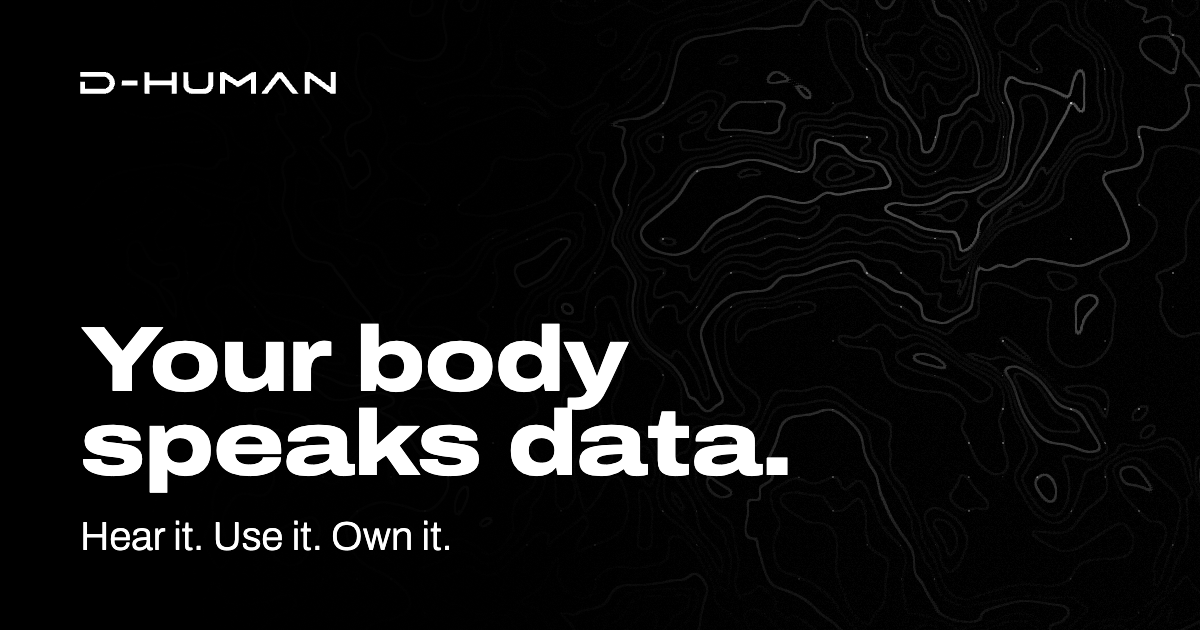
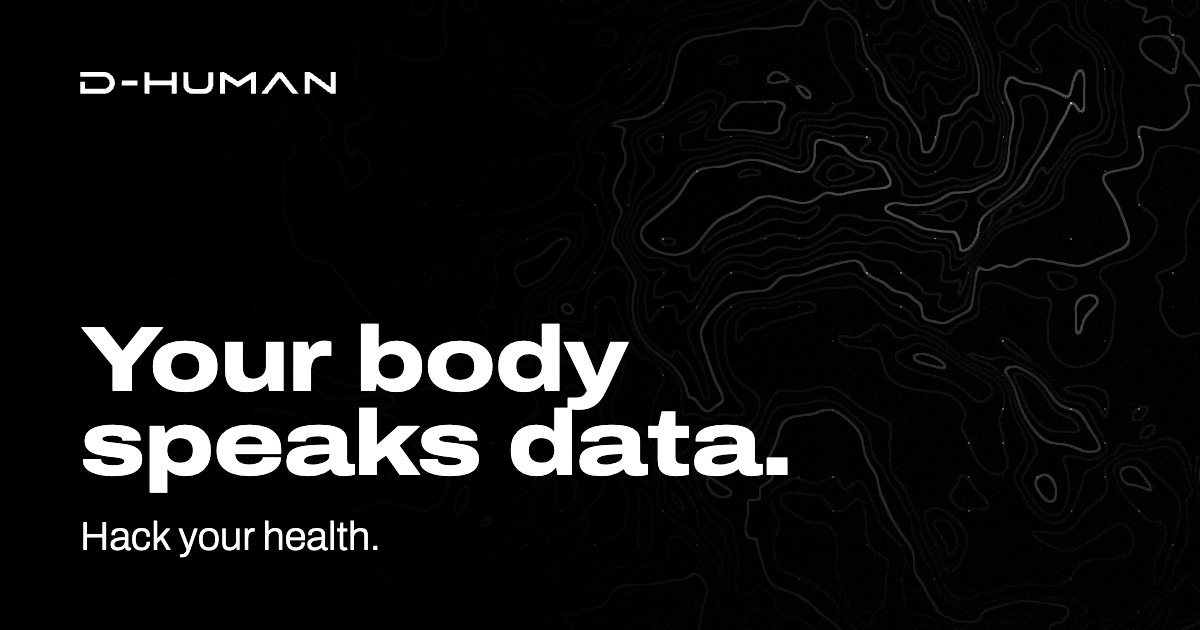
Add a Google Form to the waitlist and change the tagline
The form is a second way onto the waitlist. setupForm() in the Apps Script
builds it, links it to the Sheet, opens it to anyone with the link and adds a
trigger that files answers in the Waitlist tab with Source google-form. The new
/api/waitlist/form route gives those signups the welcome email and a Resend
contact, so launch broadcasts reach both sources.

The tagline becomes "Hack your health." on the hero, welcome email and share
image.

Changed region(s): [[0.0925, 0.8143, 0.37, 0.8746]]

diff --git a/app/api/waitlist/form/route.ts b/app/api/waitlist/form/route.ts
@@ -1,0 +1,29 @@
+import { after } from "next/server";
+import { saveContact, sendWelcomeEmail } from "@/lib/waitlist/email";
+import { formSignupSchema } from "@/lib/waitlist/schema";
+import { verifyWebhookSecret } from "@/lib/waitlist/token";
+
+// Called by the Apps Script trigger after it saves a new Google Form signup, so
+// form signups get the same welcome email and Resend contact as website ones.
+export async function POST(request: Request) {
+  const token = request.headers.get("authorization")?.replace(/^Bearer\s+/i, "") ?? "";
+  if (!verifyWebhookSecret(token)) {
+    return Response.json({ error: "forbidden" }, { status: 403 });
+  }
+
+  const body = await request.json().catch(() => null);
+  const parsed = formSignupSchema.safeParse(body);
+  if (!parsed.success) {
+    return Response.json({ error: "invalid_email" }, { status: 400 });
+  }
+
+  const { email, firstName } = parsed.data;
+  after(async () => {
+    const results = await Promise.allSettled([
+      sendWelcomeEmail(email),
+      saveContact(email, firstName),
+    ]);
+    for (const r of results) if (r.status === "rejected") console.error("[waitlist]", r.reason);
+  });
+  return Response.json({ status: "accepted" });
+}

diff --git a/lib/waitlist/token.ts b/lib/waitlist/token.ts
@@ -1,5 +1,5 @@
 import "server-only";
-import { createHmac, timingSafeEqual } from "node:crypto";
+import { createHash, createHmac, timingSafeEqual } from "node:crypto";
 
 // A signup gets a token that lets the same browser add its optional
 // follow-up answers, without letting anyone edit another person's row.
@@ -19,4 +19,13 @@ export function verifyEmailToken(email: string, token: string) {
   const expected = Buffer.from(signEmail(email));
   const received = Buffer.from(token);
   return expected.length === received.length && timingSafeEqual(expected, received);
+}
+
+// For calls from the Apps Script itself. Hashing gives both sides the same
+// length, which timingSafeEqual requires.
+export function verifyWebhookSecret(value: string) {
+  const secret = process.env.GOOGLE_SHEETS_WEBHOOK_SECRET;
+  if (!secret) return false;
+  const digest = (text: string) => createHash("sha256").update(text).digest();
+  return timingSafeEqual(digest(value), digest(secret));
 }

diff --git a/lib/waitlist/welcome-email.ts b/lib/waitlist/welcome-email.ts
@@ -90,7 +90,7 @@ export function welcomeEmail({ email, siteUrl, assetUrl = siteUrl, canReply = fa
             </tr>
             <tr>
               <td class="px" style="padding:18px 40px 36px;font:500 18px/26px ${FONT};color:${GRAPHITE}">
-                Your body speaks data.<br><span style="white-space:nowrap;color:${PAPER}">Hear it. Use it. Own it.</span>
+                Your body speaks data.<br><span style="white-space:nowrap;color:${PAPER}">Hack your health.</span>
               </td>
             </tr>
 
@@ -154,7 +154,7 @@ export function welcomeEmail({ email, siteUrl, assetUrl = siteUrl, canReply = fa
 
   const text = [
     "You're on the list.",
-    "Your body speaks data. Hear it. Use it. Own it.",
+    "Your body speaks data. Hack your health.",
     "",
     "Thanks for joining. When early access opens, you'll hear from us first, along with pricing for the Baseline, Core and Complete plans.",
     "",

diff --git a/components/site/Hero.tsx b/components/site/Hero.tsx
@@ -17,11 +17,7 @@ export function Hero() {
           <span className="block">Your body</span>{" "}
           <span className="block">speaks data.</span>
         </h1>
-        <p className="semiwide mt-5 text-lead font-medium sm:mt-7">
-          {/* Each beat stays whole when the line wraps on narrow screens. */}
-          <span className="inline-block">Hear it.</span> <span className="inline-block">Use it.</span>{" "}
-          <span className="inline-block">Own it.</span>
-        </p>
+        <p className="semiwide mt-5 text-lead font-medium sm:mt-7">Hack your health.</p>
         <p className="mt-8 max-w-[48ch] text-graphite sm:mt-10">
           D-Human tests your blood, gut and body, has a doctor review the results, and recommends
           supplements only where your markers point. Then we retest to show what moved.

diff --git a/lib/waitlist/email.ts b/lib/waitlist/email.ts
@@ -42,12 +42,13 @@ export async function sendWelcomeEmail(email: string) {
 
 // Adds the signup to Resend Contacts (and a segment, if configured) so launch
 // news can go out from Resend's Broadcasts screen with unsubscribe handled.
-export async function saveContact(email: string) {
+export async function saveContact(email: string, firstName?: string) {
   const r = resend();
   if (!r) return;
   const segmentId = process.env.RESEND_SEGMENT_ID;
   const { error } = await r.contacts.create({
     email,
+    firstName,
     unsubscribed: false,
     ...(segmentId ? { segments: [{ id: segmentId }] } : {}),
   });

diff --git a/lib/waitlist/schema.ts b/lib/waitlist/schema.ts
@@ -39,5 +39,16 @@ export const detailsSchema = z.object({
     .or(z.literal("").transform(() => undefined)),
 });
 
+// Sent by the Google Form's Apps Script trigger for a new row. The form puts no
+// limit on names, so a long one is cut rather than costing the welcome email.
+export const formSignupSchema = z.object({
+  email,
+  firstName: z
+    .string()
+    .trim()
+    .optional()
+    .transform((value) => value?.slice(0, 60) || undefined),
+});
+
 export type JoinInput = z.infer<typeof joinSchema>;
 export type DetailsInput = z.infer<typeof detailsSchema>;

diff --git a/MEMORY.md b/MEMORY.md
@@ -4,13 +4,14 @@ The running record of this project: where things stand, why they are the way the
 
 ## Snapshot
 
-- **What:** the D-Human waitlist landing page. Tagline: "Your body speaks data. Hear it. Use it. Own it." D-Human tests first (blood, gut, body), has a doctor review the results, recommends supplements only where markers point, and retests.
+- **What:** the D-Human waitlist landing page. Tagline: "Your body speaks data. Hack your health." (until 2026-10-30: "Hear it. Use it. Own it.") D-Human tests first (blood, gut, body), has a doctor review the results, recommends supplements only where markers point, and retests.
 - **Live:** https://www.dhuman.fit (`dhuman.fit` redirects there) and https://d-human.vercel.app. Vercel personal account `mayank-f847`. Every push to `main` auto-deploys in about 20 seconds. The claude.ai Vercel connector is signed into a different account and cannot see this project.
 - **Repo:** https://github.com/mayank99deo/D-HUMAN, branch `main`.
 - **Stack:** Next.js 16.4.2 (App Router, Cache Components on), React 19.3, Tailwind CSS 4, Motion 14.6, zod 4, resend 6.34. Node 24 via fnm.
-- **Signups:** browser → `/api/waitlist` → Google Apps Script web app (`google-apps-script/Code.gs`) → the `Waitlist` tab of the Google Sheet (13 columns). The optional follow-up answers go to `/api/waitlist/details` with an HMAC token.
+- **Signups:** browser → `/api/waitlist` → Google Apps Script web app (`google-apps-script/Code.gs`) → the `Waitlist` tab of the Google Sheet (13 columns). The optional follow-up answers go to `/api/waitlist/details` with an HMAC token. Second source: a Google Form, built by `setupForm()` in the same script. Its trigger files each answer in the `Waitlist` tab with Source `google-form` and calls `/api/waitlist/form` (authorised with the webhook secret) for the welcome email and Resend contact.
 - **Email:** Resend. `dhuman.fit` is verified there (DKIM, plus MX and SPF on `send.dhuman.fit`; no DMARC yet). The sender defaults to `D-Human <hello@dhuman.fit>`. The welcome email template is `lib/waitlist/welcome-email.ts`; preview it in dev at `/api/email-preview`.
 - **Domains:** as of 2026-10-27 `dhuman.fit` points at Vercel and 308-redirects to `www.dhuman.fit`, which serves the site. Mail for `@dhuman.fit` runs on Google Workspace. Links and images use `lib/site-url.ts` (`NEXT_PUBLIC_SITE_URL`, else Vercel's production domain); share previews still point at `d-human.vercel.app` (see Open items).
+- **Launch film:** in the studio, `~/Projects/studio/projects/d-human-launch` (16:9) and `d-human-launch-reel` (9:16); notes in each `REVIEW.md`. New video work goes in the studio, not this repo.
 - **Video:** two HyperFrames projects, each with `SPEC.md` and `REVIEW.md`. `video/intro/` is the 13 s product intro. `video/loop/` is the 20 s phone-screen loop (600 x 1296) that plays in the "Test first" section; its web copy and stills live in `public/media/loop/` (re-encode steps in its `REVIEW.md`). Preview with the plugin CLI's `preview`, render with `render`; caches and `renders/` are git-ignored.
 - **Environment variables (names only):** `GOOGLE_SHEETS_WEBHOOK_URL`, `GOOGLE_SHEETS_WEBHOOK_SECRET` (must equal `WEBHOOK_SECRET` in Apps Script), `RESEND_API_KEY` (full access), `RESEND_FROM`, `RESEND_REPLY_TO`, `RESEND_SEGMENT_ID`, `NEXT_PUBLIC_SITE_URL` (optional). Local values live in `.env.local`, which is git-ignored.
 - **Local dev:** port 3000 belongs to the Pepvoga project on this Mac, so run `npm run dev -- -p 3001`.
@@ -27,6 +28,7 @@ The running record of this project: where things stand, why they are the way the
 - **Touch:** hover styles only under `(hover: hover)`, pressed (`:active`) feedback instead, tap targets of at least 44 px, email keyboard shows "Send".
 - **Waitlist:** email only up front, then optional questions. Bots are caught by a honeypot field and a best-effort limit of 5 attempts a minute per IP (kept in memory, so per server instance).
 - **Apps Script:** escapes values that could run as formulas or lose leading zeros; `setup()` builds and formats the tab and never deletes data.
+- **Google Form (2026-11-01):** one list, two ways in. Answers land in the `Waitlist` tab; Google's `Form responses` tab is only the raw record. Same optional questions and labels as the site, matched by question ID so wording can change. An email already on the list keeps its row and first Source, and the form fills blanks only, because unlike the site it can't prove who is typing. It has no honeypot or rate limit, and each new address it accepts gets a welcome email.
 
 ## Gotchas
 
@@ -36,6 +38,8 @@ The running record of this project: where things stand, why they are the way the
 - **Testing Apps Script with curl:** `curl -X POST -L` keeps POST on the redirect and gets "Page not found". `fetch`, which the app uses, works.
 - **WebGL blocks the page while it starts:** creating a context is synchronous; it measured about 0.4 s on this Mac's GPU and about 2 s on a cold software renderer (what Lighthouse uses), on top of waiting behind the GPU process while it paints the page. That took mobile Performance down to 39. Keep WebGL setup in the worker.
 - **Measuring performance:** run Lighthouse against a production build (`next build` + `next start`), not `next dev`. Command: `npx -y lighthouse@12.8.2 <url> --form-factor=mobile --screenEmulation.mobile --chrome-flags="--headless=new --enable-unsafe-swiftshader --use-angle=swiftshader"`.
+- **Script-made forms and the public:** publishing is not enough. Anyone-with-the-link is a separate Drive permission (`type: anyone`, `view: published`, `role: reader`), and the owner can always open the form, so check signed out. `setupForm()` does both. Themes can't be scripted, so the header image is a manual upload.
+- **The waitlist Sheet is out of reach from chats:** it isn't in the Drive of `mayank29deo@gmail.com`, the account the claude.ai Google connectors use, and no connector can run Apps Script. Script changes have to be pasted and run by hand.
 - **Safe live check:** POST `/api/waitlist/details` with a fake token. 403 means the Sheets secret is configured; 500 means it is missing. Writes nothing.
 - **Reduced motion in render:** Motion's `useReducedMotion()` reads the media query on the client's first render, so using it to choose markup causes a hydration mismatch. Use `useSyncExternalStore` with a server snapshot of `false` (as `LoopPhone.tsx` does).
 - **WebP from ffmpeg:** Homebrew's ffmpeg has no WebP encoder. Export PNG frames and convert with `sharp` from `node_modules` (`node --input-type=module`, `import sharp from "sharp"`).
@@ -43,6 +47,7 @@ The running record of this project: where things stand, why they are the way the
 
 ## Open items
 
+- [ ] Google Form: paste `Code.gs` into the Sheet's Apps Script, run `setupForm`, upload `form-header.jpg` as the theme header
 - [ ] Add DMARC: TXT on `_dmarc.dhuman.fit` with `v=DMARC1; p=none;`
 - [ ] Share previews: set `NEXT_PUBLIC_SITE_URL` to `https://www.dhuman.fit` in Vercel (or delete it so the production domain is used) and redeploy; the og:image still points at `d-human.vercel.app`
 - [ ] Set the git name and email so commits link to the GitHub account
@@ -53,7 +58,22 @@ The running record of this project: where things stand, why they are the way the
 
 Newest first. One entry per change; pushes carry their commit hash.
 
+### 2026-11-01
+- **Google Form as a second waitlist source:** `setupForm()` in `google-apps-script/Code.gs` builds the form, links it to the Sheet, opens it to anyone with the link and adds a trigger that files answers in the `Waitlist` tab. New route `/api/waitlist/form` sends form signups the welcome email and adds them to Resend, so launch broadcasts reach both sources. `saveContact` now takes a first name, and `form-header.jpg` is the theme header. Tested: `Code.gs` against strict stand-ins for Google's services (25 cases; 20 deliberate bugs all caught), and the route on a production build with a stand-in Resend. Not yet run on real Google, which needs `setupForm` run by hand.
+
+### 2026-10-31
+- **YC demo approved and delivered:** Mayank approved the full film, and the 75 s cut for the YC application is made from the 15 marked shots. Files: `renders/D-Human-YC-demo-129s.mp4` and `renders/D-Human-YC-demo-75s.mp4` in the studio project. Both -14.1 LUFS, -1.8 dBTP or lower. One sound fix went into both after approval: "to you" in S15 was being covered, so the Booked chime and scooter moved; the approved picture is unchanged. Mayank confirmed the Ananya illustration is cleared for use.
+- **YC demo, narrator fixed:** Mayank heard the D-Human voice change. The voice id was always Miles, but nine Deepgram takes had drifted from the approved sound, the worst 14 semitones high (S12 at expressivity 1). They were regenerated, matched against the Act 1 voice with the project's `tools/voice_match.py`, and the picture re-timed to the new words. Re-rendered at full quality.
+- **YC demo, full film built (Acts 3 to 10):** all 30 shots now play in the studio project, reviewed as `renders/D-Human-YC-demo-draft.mp4`; final render and the 75 s cut wait for approval. New: the upload path, a booking flow with India's towns running behind the phone, the report and gauges, care team, the white capsule wall, budget, a box that lands between Ananya and the phone, the retest, her return visit, connected apps, voice, and an end card that reveals the contour figure from S02. "D-Human" is now voiced as two words (TTS spelling "D. Human"). Mix -14.0 LUFS, -1.6 dBTP via `tools/master.py`. Calls that override the sheet are in the project's `DECISIONS.md`, results in `REVIEW.md`.
+- **YC demo, Acts 1 and 2:** Mayank's illustrated girl became Ananya, cut off her paper and given a face rig that animates the original art, with lip sync from the voice. ElevenLabs upgraded to Starter, so music is composed and audio is no longer draft-only. From S03 the film plays as a two-shot: Ananya on the left, the phone on the right.
+- **YC product demo started:** a 129.6 s film in the studio at `~/Projects/studio/projects/d-human-yc-demo`, built from the Google Sheet "D-Human YC Demo: Production Script". Decisions that override the sheet are in the project's `DECISIONS.md`. Voices generated (Miles and Priya via Deepgram), Act 1 built for review. Music waits on an ElevenLabs upgrade.
+
+### 2026-10-30
+- **Launch film:** a 52.8 s film in 16:9 and 9:16, made in the studio, not this repo: `~/Projects/studio/projects/d-human-launch` and `d-human-launch-reel`, brand file `~/Projects/studio/brands/d-human.md`. Music and effects only; colour appears only when a sound strikes. ElevenLabs audio is on the free plan, so draft use only until regenerated on a paid plan.
+- **Tagline changed** from "Hear it. Use it. Own it." to "Hack your health." ("Your body speaks data." stays): the hero line, the welcome email (HTML and plain text), the share image (`app/opengraph-image.png`, re-rendered from the site's shader with the same layout) and its alt text, README. Checked at 1440 and 320 px (one line, no overflow) and in `/api/email-preview`. Not pushed yet.
+
 ### 2026-10-28
+- **Voice test:** generated "D-Human. Train smarter, live stronger — dhuman.fit" with the VoiceStudio MCP, without a `profile_id`, to test the claude-code voice binding (output mode `files`, 4.78 s). Copied to `promo/audio/vo-test.wav` (24 kHz mono WAV). The reply doesn't say which voice was used. Not committed.
 - **Push `eb3fb4e`:** the phone loop, the chart's per-person profiles, the unnamed source, the trimmed page and headline fix, and both video projects (`video/intro`, `video/loop`), shipped together.
 - **"Test first" phone and a livelier chart:** the sample report and its explanation now play inside a phone. A new HyperFrames clip (`video/loop/`, 20 s, 600 x 1296) runs tests → doctor-reviewed report → vitamin D in plain words → two answers → the stack with the clean-label bar → retest, with an in-app tab bar that mirrors the steps. On the page (`components/site/LoopPhone.tsx`) the four steps follow the clip and jump to their chapter on tap; it plays only in view, has Pause, and shows stills for reduced motion and Data Saver. The 76 of 100 chart's picker now opens each person's five-marker panel and resulting stack (or "nothing to add"), and any square can be tapped. "Tata 1mg Labs" is no longer named; the figure is attributed as research across 2.2 lakh lab tests in 27 cities. Verified in Chrome at 1440 and 390 px and with reduced motion; mobile Lighthouse on a production build 93–95, the rest 100.
 - **Landing page trimmed to three sections:** hero, "Most people buy supplements blind" (the 76 of 100 chart) and "Test first. Supplement second." (ending on the sample report). What we test, Three plans and the closing waitlist section are commented out in `app/page.tsx`, components kept. The `#join` anchor moved to the hero form, so the header button and "Find your number" scroll there. The footer stays for its wellness disclaimer. Also fixed the headline reading as "Your bodyspeaks data." to screen readers and search (missing space between its two lines).

diff --git a/README.md b/README.md
@@ -1,6 +1,6 @@
 # D-Human landing page
 
-The waitlist site for D-Human: "Your body speaks data. Hear it. Use it. Own it."
+The waitlist site for D-Human: "Your body speaks data. Hack your health."
 
 Next.js 16 (App Router), Tailwind CSS 4, a hand-written WebGL background, Google Sheets for signups, and Resend for email.
 
@@ -22,6 +22,8 @@ The page works without any keys. Joining the waitlist then shows an error until 
 4. For a new signup, the API returns right away. Afterwards, Resend sends the welcome email and adds the person to Resend Contacts.
 5. The page then asks a few optional questions: plan, training, first name, city, WhatsApp. They go to `/api/waitlist/details` with a signed token, so a visitor can only edit the row they just created.
 
+The Google Form is the second way in. Its answers reach the same `Waitlist` tab through an Apps Script trigger, marked `google-form` in the Source column (website rows say `hero` or `closing`). New people get the same welcome email and Resend contact, through `/api/waitlist/form`. An email already on the list keeps its row and its first Source, and the form only fills cells that are blank, because a form can't prove who is typing.
+
 ## 1. Connect the Google Sheet
 
 1. Create a Google Sheet (any name).
@@ -38,6 +40,15 @@ The page works without any keys. Joining the waitlist then shows an error until 
 If you skip `setup`, the tab and header row are created on the first signup, just without the formatting. Values that would run as spreadsheet formulas, and numbers with leading zeros, are stored as plain text.
 
 > If you edit the script later, deploy a new version (**Manage deployments → Edit → New version**). Otherwise the URL keeps running the old code.
+
+### Add the Google Form
+
+1. Paste the latest [`google-apps-script/Code.gs`](google-apps-script/Code.gs) into the Apps Script editor and save.
+2. Choose **setupForm** in the function menu and click **Run**. Allow every permission it asks for. It builds the form, links it to this Sheet, opens it to anyone with the link and adds the trigger. Running it again keeps the same form.
+3. Copy the share link from the Execution log. The log also says whether the form opened for a signed-out visitor, which matters because its owner can always open it.
+4. Scripts can't set a form's theme, so open the form, click the palette icon (**Customize theme**), upload [`google-apps-script/form-header.jpg`](google-apps-script/form-header.jpg) as the header, and pick the black swatch.
+
+Google also adds a `Form responses` tab with each answer exactly as submitted. The `Waitlist` tab is the list; that tab is the raw record. Questions can be reworded in the form, since answers are matched by question ID. A question you add yourself stays in `Form responses` only. The form needs no new web app deployment, because triggers run the saved code.
 
 ## 2. Connect Resend
 
@@ -70,9 +81,10 @@ The site's public address comes from `NEXT_PUBLIC_SITE_URL` if set, otherwise fr
 | `components/waitlist/useSilkTether.ts` | The silk threads that catch the cursor near the Join buttons (pointer devices only) |
 | `MEMORY.md` | Project memory: current state, decisions, gotchas, open items and a log of every change and push |
 | `components/waitlist/` | The waitlist form and the signup state shared by both forms on the page |
-| `app/api/waitlist/` | Signup and follow-up answer endpoints |
+| `app/api/waitlist/` | Signup, follow-up answer and Google Form endpoints |
 | `lib/waitlist/` | Validation, Sheets client, Resend emails, signed tokens, rate limit |
-| `google-apps-script/Code.gs` | The Sheets webhook |
+| `google-apps-script/Code.gs` | The Sheets webhook and the Google Form setup |
+| `google-apps-script/form-header.jpg` | The Google Form's theme header (1600 x 400) |
 | `components/brand/paths.ts` | The D-Human wordmark, traced from the logo artwork |
 
 ## Copy rules
